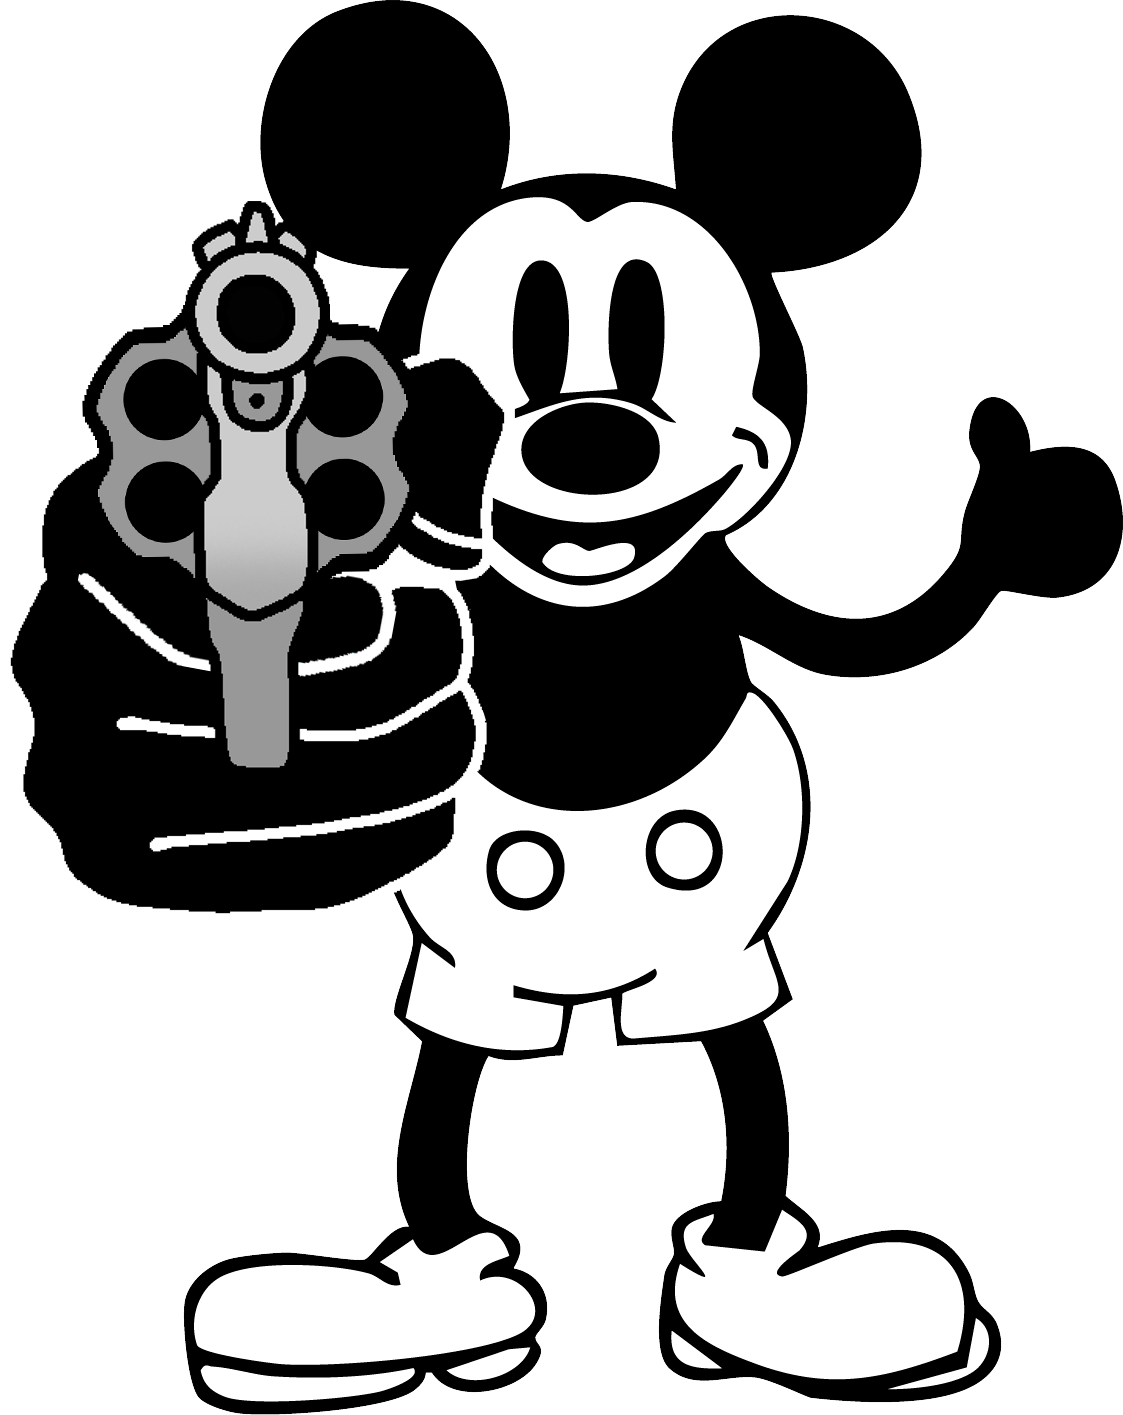
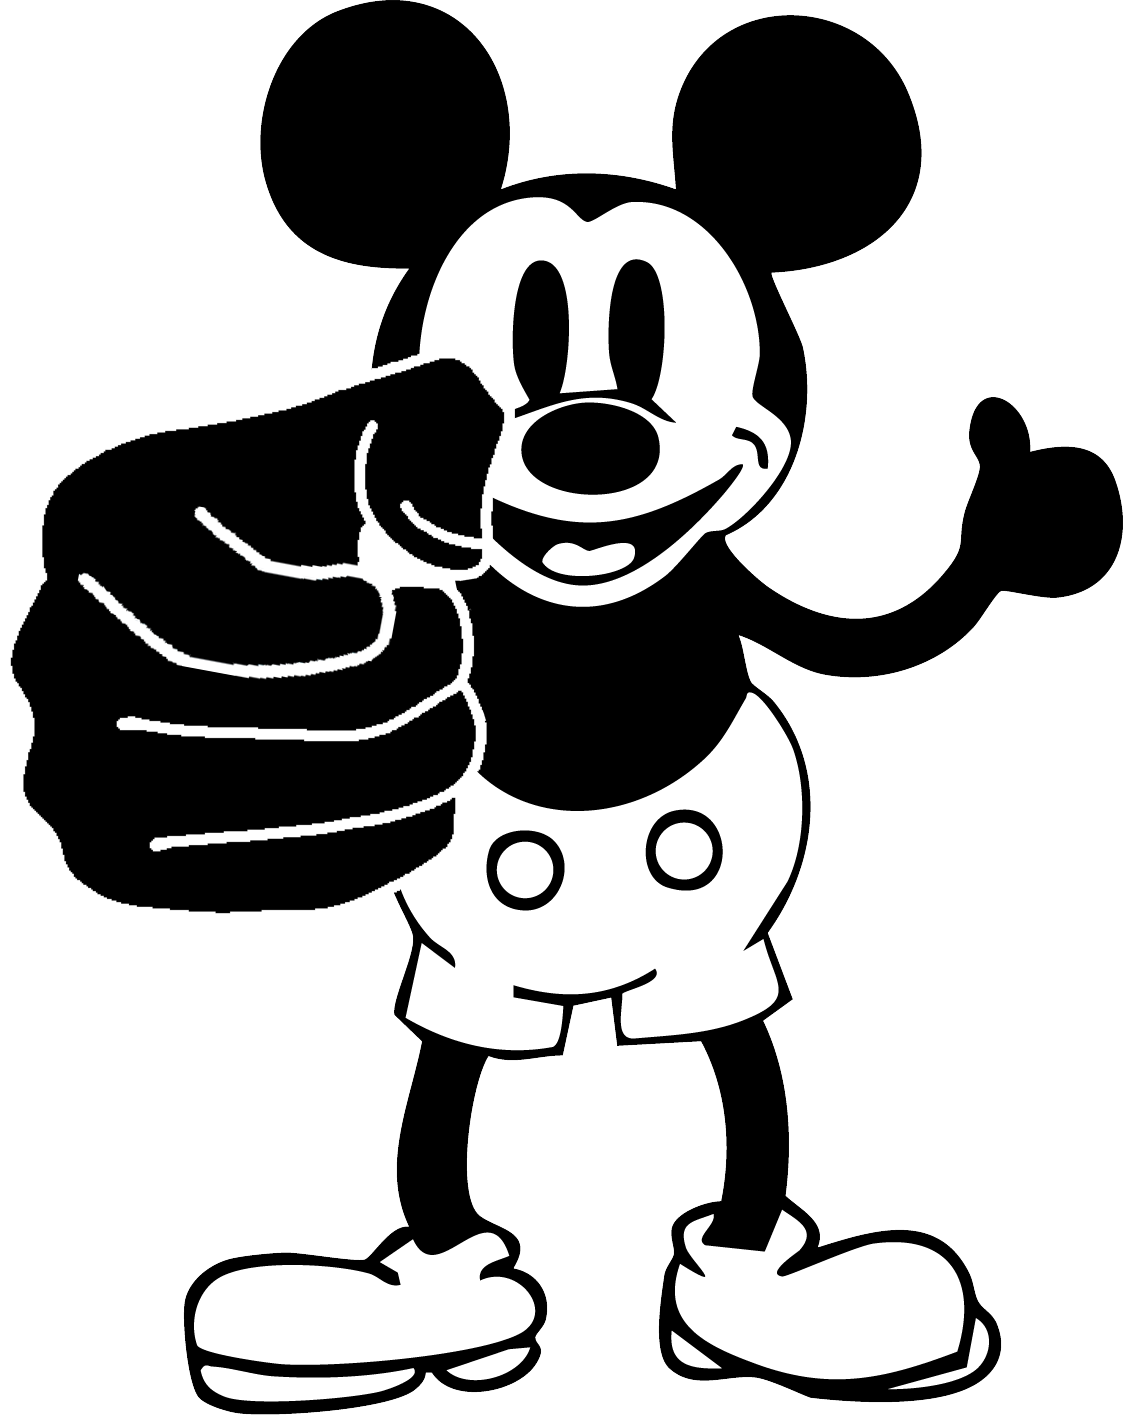
added character and character gun

Changed region(s): [[0.0623, 0.1244, 0.374, 0.5597]]

diff --git a/src/components/watch.tsx b/src/components/watch.tsx
@@ -1,10 +1,11 @@
 import { useAppContext } from '@/context/use-app-context'
-import { CHARACTER_IMAGES, images } from '@/lib/constants'
+import { images } from '@/lib/constants'
 import { cn } from '@/lib/utils'
 import { Header } from './header'
 import { Footer } from './footer'
 import { DuelBar } from './duel-bar/duel-bar'
 import { Range } from './range'
+import { Character } from './character'
 
 const Watch = ({ format }: { format: 'duel' | 'watch' }) => {
   const { characterIndex } = useAppContext()
@@ -24,16 +25,13 @@ const Watch = ({ format }: { format: 'duel' | 'watch' }) => {
       <div className='mt-auto flex flex-col gap-6'>
         <div className='relative mx-auto flex flex-col items-center justify-center gap-2'>
           {format === 'duel' && <div className='text-2xl'>BIGBALLS</div>}
-          <div
-            className={cn(
-              'flex h-[180px] w-[180px] items-center justify-center',
-              format === 'watch' && '-mb-7 h-[340px] w-[340px]',
-            )}
-          >
-            <img
-              src={CHARACTER_IMAGES[characterIndex]}
-              alt=''
-              className='max-h-full'
+          <div className={cn()}>
+            <Character
+              className={cn(
+                'h-[180px]',
+                format === 'watch' && '-mb-7 h-[300px]',
+              )}
+              characterIndex={characterIndex}
             />
           </div>
         </div>

diff --git a/src/components/character.tsx b/src/components/character.tsx
@@ -1,0 +1,37 @@
+import React from 'react'
+
+import { cn } from '@/lib/utils'
+import { CHARACTER_IMAGES } from '@/lib/constants'
+import { GunCharacter } from './character-gun'
+
+const Character = React.forwardRef<
+  HTMLDivElement,
+  React.HtmlHTMLAttributes<HTMLDivElement> & { characterIndex: number }
+>(({ characterIndex, className, style, ...props }, ref) => {
+  return (
+    <div
+      ref={ref}
+      className={cn(
+        'relative mx-auto h-50 bg-contain bg-bottom bg-no-repeat',
+        characterIndex === 0 && 'aspect-[1855/calc(1830*1.4)]',
+        characterIndex === 1 && 'aspect-[1123/1415]',
+        className,
+      )}
+      style={{
+        backgroundImage: `url(${CHARACTER_IMAGES[characterIndex]})`,
+        ...style,
+      }}
+      {...props}
+    >
+      <GunCharacter
+        className={cn(
+          'absolute',
+          characterIndex === 0 && 'top-0 left-[30%] w-[52.5%]',
+          characterIndex === 1 && 'top-[15%] left-[7%] aspect-[1/1.7] w-[30%]',
+        )}
+      />
+    </div>
+  )
+})
+
+export { Character }

diff --git a/src/components/character-gun.tsx b/src/components/character-gun.tsx
@@ -1,0 +1,32 @@
+import React from 'react'
+
+import { images } from '@/lib/constants'
+import { cn } from '@/lib/utils'
+
+const GunCharacter = React.forwardRef<
+  HTMLDivElement,
+  React.HtmlHTMLAttributes<HTMLDivElement>
+>(({ className, ...props }, ref) => {
+  return (
+    <div
+      ref={ref}
+      className={cn('relative aspect-[1/1.95]', className)}
+      {...props}
+    >
+      <div
+        className='absolute top-[10%] right-0 left-0 aspect-square animate-spin bg-contain bg-center bg-no-repeat duration-5000'
+        style={{
+          backgroundImage: `url(${images.gunchambercharacter})`,
+        }}
+      ></div>
+      <div
+        className='absolute inset-0 bg-contain bg-center bg-no-repeat'
+        style={{
+          backgroundImage: `url(${images.gunbodycharacter})`,
+        }}
+      ></div>
+    </div>
+  )
+})
+
+export { GunCharacter }

diff --git a/src/lib/constants.ts b/src/lib/constants.ts
@@ -35,6 +35,8 @@ export const images = {
   wagerhere: './assets/images/wager-here.svg',
   gunchamber: './assets/images/compressed/gun-chamber.png',
   gunbody: './assets/images/compressed/gun-body.png',
+  gunchambercharacter: './assets/images/gun-chamber-character.png',
+  gunbodycharacter: './assets/images/gun-body-character.png',
   play: './assets/images/play.svg',
   pull: './assets/images/pull.svg',
   footer: './assets/images/footer.svg',
